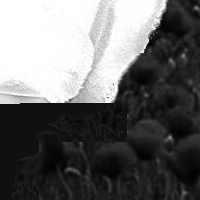
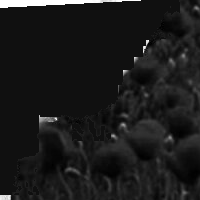
flowerbug3

diff --git a/PyLearnIPConvolution/blurring.py b/PyLearnIPConvolution/blurring.py
@@ -26,8 +26,8 @@ for i in range(FS//2, rows-FS//2):
             else:
                 image_new[i, j] = average
         else:
-            image = cv2.imread('input/flower.jpg', cv2.IMREAD_GRAYSCALE)
-            image = image[500:700,500:700]
+            # image = cv2.imread('input/flower.jpg', cv2.IMREAD_GRAYSCALE)
+            # image = image[500:700,500:700]
             image_new[i, j] = image[i,j]
         
 cv2.imwrite('output/flower_blur4.png',image_new)
